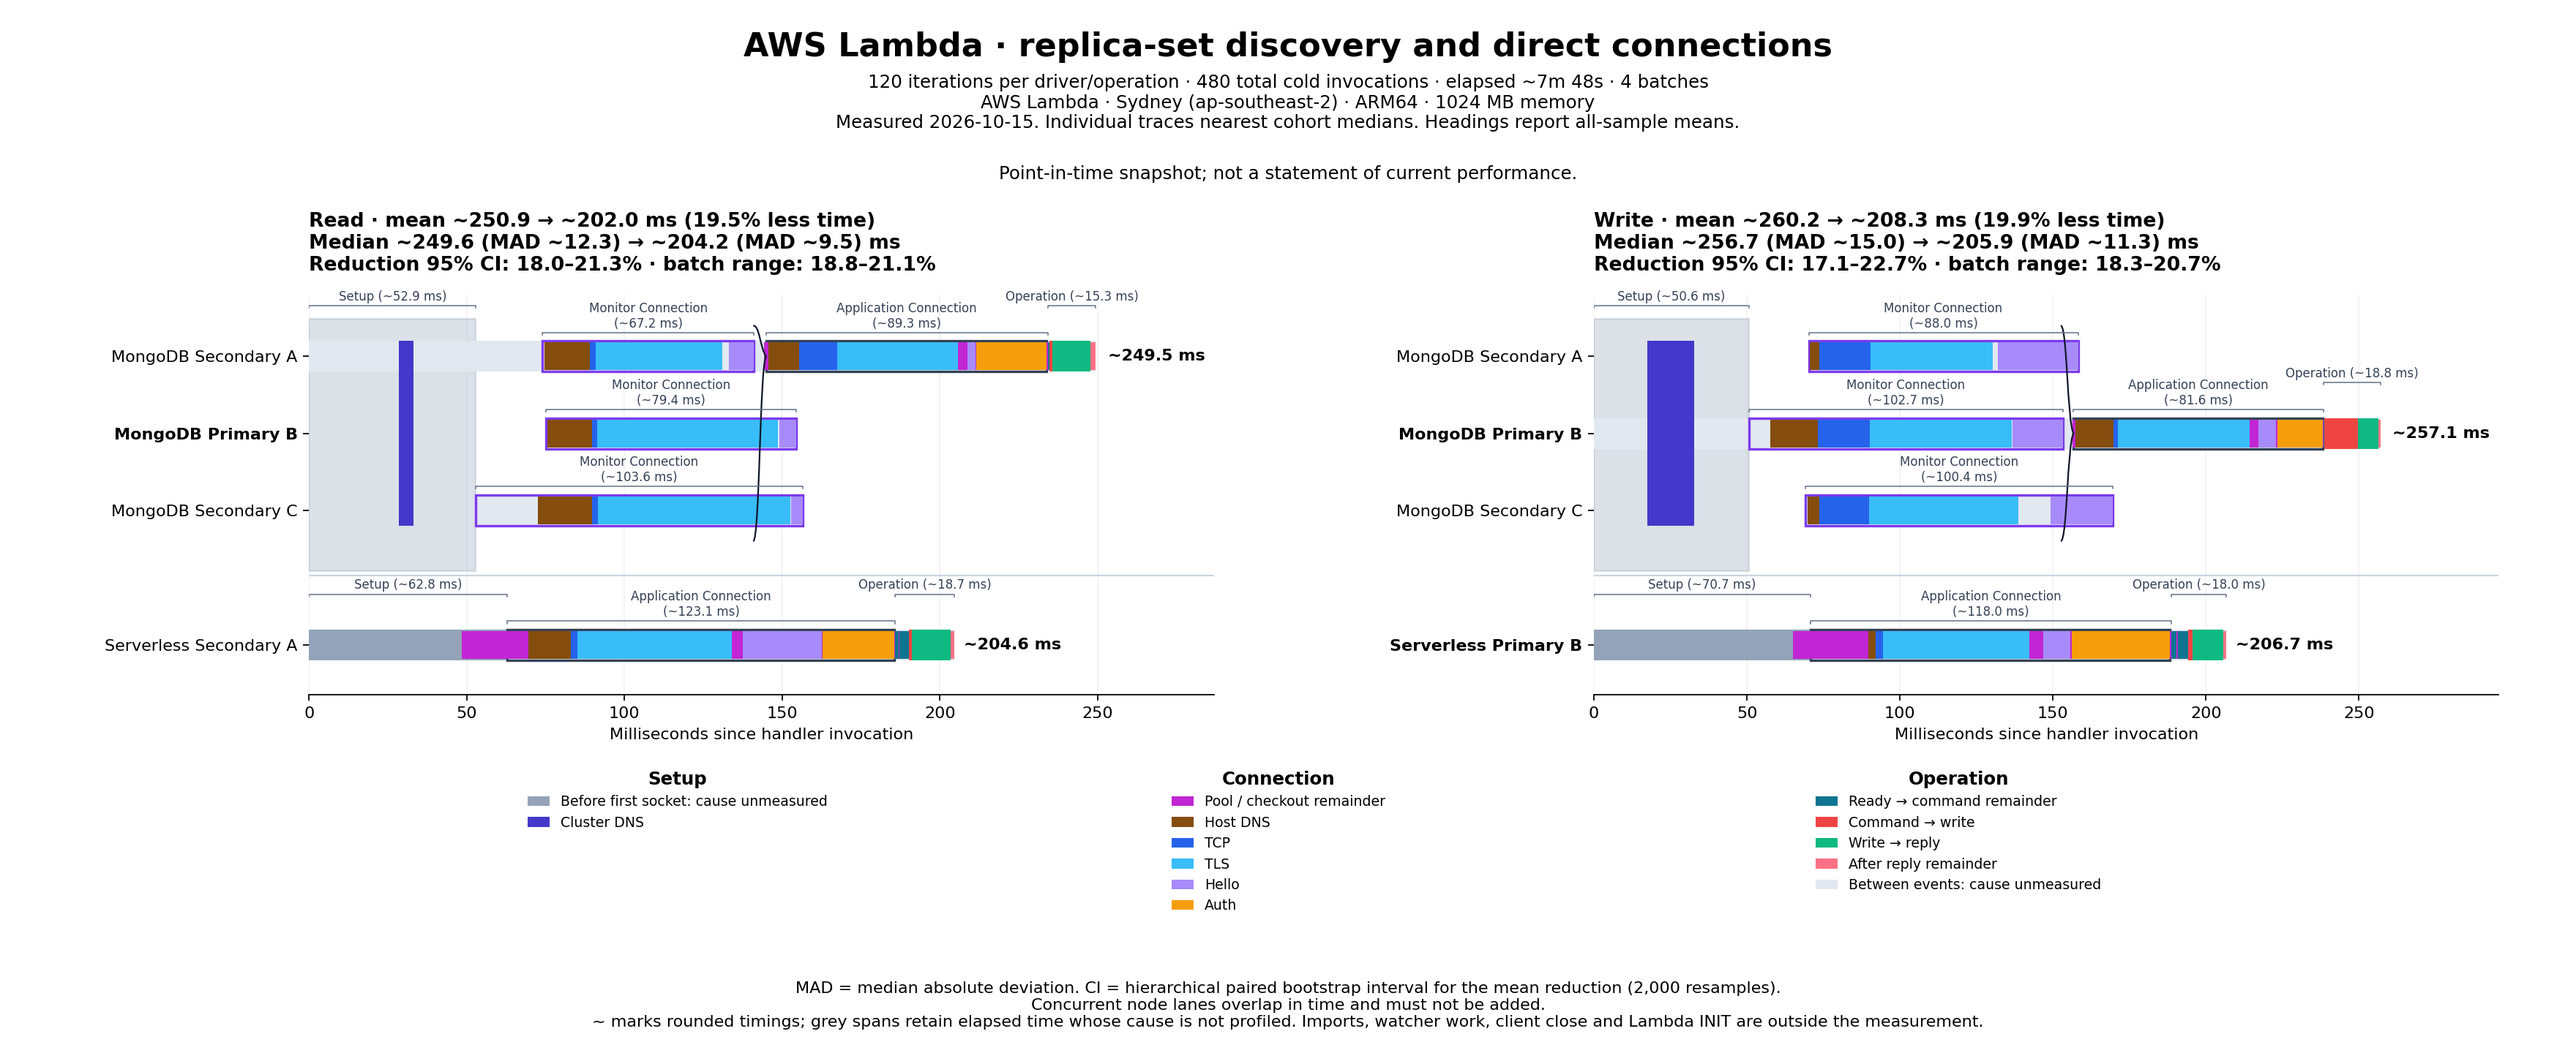
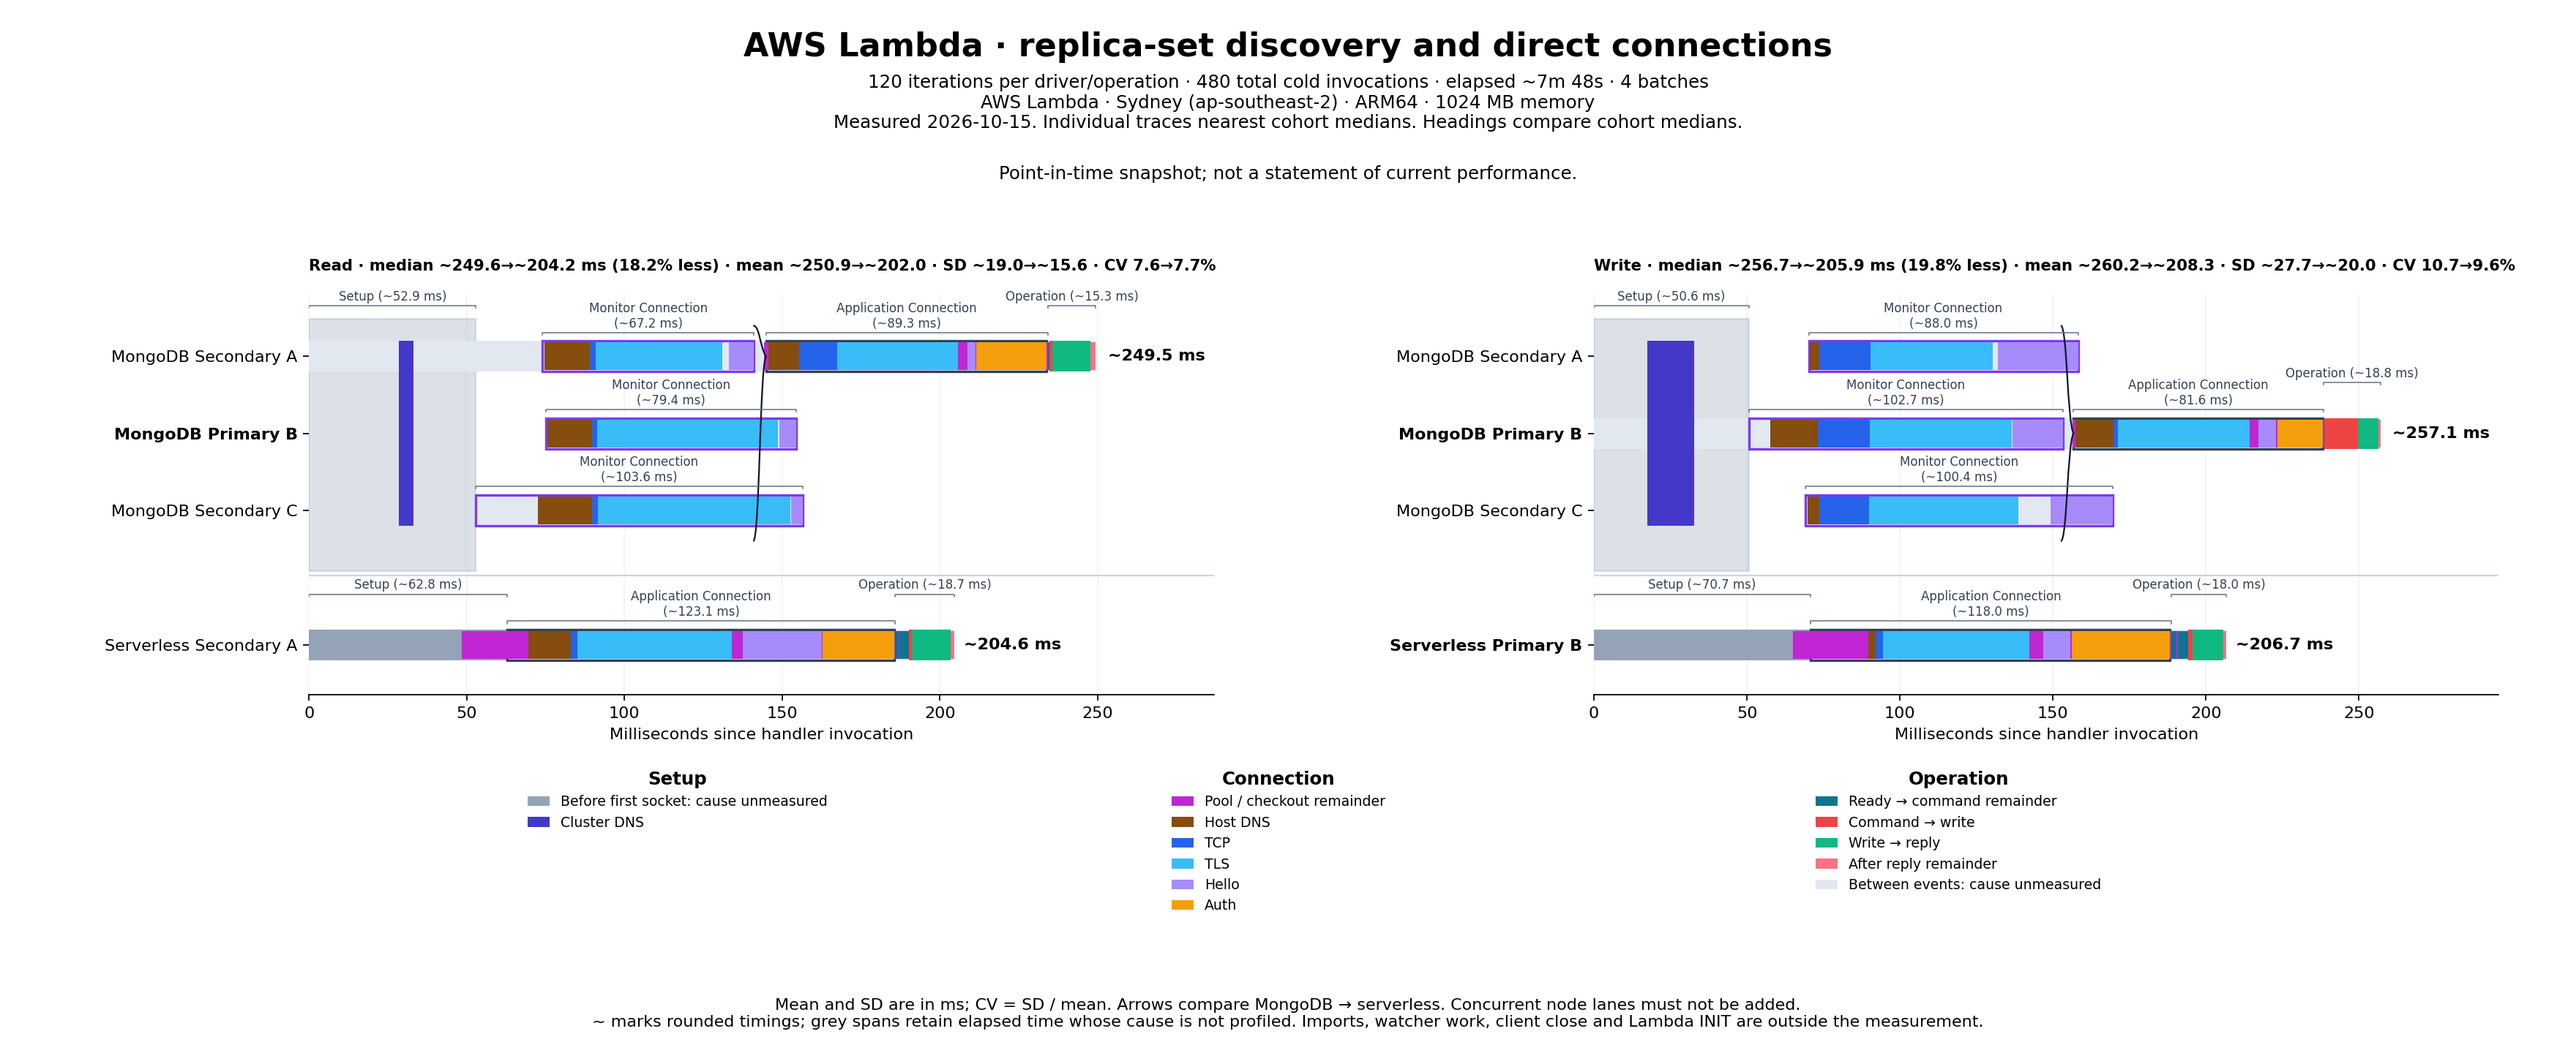
feat: condense benchmark statistics into median-led headings

diff --git a/benchmark/report.py b/benchmark/report.py
@@ -8,7 +8,7 @@ import json
 import math
 import random
 from pathlib import Path
-from statistics import mean, median
+from statistics import mean, median, stdev
 
 import matplotlib
 
@@ -328,6 +328,8 @@ def summarize(rows):
                     "n": len(group),
                     "mean": mean(totals),
                     "median": median(totals),
+                    "standardDeviation": stdev(totals) if len(totals) > 1 else None,
+                    "coefficientOfVariationPercent": 100 * stdev(totals) / mean(totals) if len(totals) > 1 else None,
                     "medianAbsoluteDeviation": median(abs(value - median(totals)) for value in totals),
                     "p95": totals[math.ceil(0.95 * len(totals)) - 1],
                     "roles": dict(Counter(row["servedRole"] for row in group)),
@@ -437,6 +439,17 @@ def section_spans(row):
                        "connection": connection})
     result.append({"label": "Operation", "start": ready, "end": timeline["total"]})
     return result
+
+
+def chart_heading(operation, native, serverless):
+    reduction = 100 * (1 - serverless["median"] / native["median"])
+
+    def pair(field, approximate=True):
+        return "→".join(("~" if approximate else "") + f"{stats[field]:.1f}"
+                        if stats[field] is not None else "n/a" for stats in (native, serverless))
+
+    return (f"{operation.title()} · median {pair('median')} ms ({reduction:.1f}% less) · "
+            f"mean {pair('mean')} · SD {pair('standardDeviation')} · CV {pair('coefficientOfVariationPercent', False)}%")
 
 
 def callback_work(stack):
@@ -684,7 +697,7 @@ def render(data, environment, output):
     figure.text(
         0.5,
         0.93,
-        run_caption(data, environment) + "\n" + f"Measured {date}. {sample_caption}. " + ("Diagnostic probes enabled; timings include tracing overhead." if diagnostic else "Headings report all-sample means."),
+        run_caption(data, environment) + "\n" + f"Measured {date}. {sample_caption}. " + ("Diagnostic probes enabled; timings include tracing overhead." if diagnostic else "Headings compare cohort medians."),
         va="top",
         ha="center",
         fontsize=11,
@@ -706,26 +719,13 @@ def render(data, environment, output):
                 row = native if item["driver"] == "native-cluster" else serverless
                 item["illustratedTraceAccountingMs"] = accounting_totals(row["timeline"])
                 item["illustratedTraceSegments"] = accounting_segments(row["timeline"])
-        means = {
-            item["driver"]: item["mean"]
-            for item in summary
-            if item["operation"] == operation
-        }
         comparison = comparison_stats([row for row in rows if row["operation"] == operation])
         for item in summary:
             if item["operation"] == operation:
                 item["comparison"] = comparison
-        reduction = comparison["reductionPercent"]
-        low, high = comparison["confidence95Percent"]
-        batch_values = [batch["reductionPercent"] for batch in comparison["batches"]]
         distributions = {item["driver"]: item for item in summary if item["operation"] == operation}
-        native_stats, serverless_stats = (distributions[mode] for mode in MODES)
-        axis.set_title(
-            f"{operation.title()} · mean ~{means['native-cluster']:.1f} → ~{means['serverless']:.1f} ms ({reduction:.1f}% less time)\n"
-            f"Median ~{native_stats['median']:.1f} (MAD ~{native_stats['medianAbsoluteDeviation']:.1f}) → ~{serverless_stats['median']:.1f} (MAD ~{serverless_stats['medianAbsoluteDeviation']:.1f}) ms\n"
-            f"Reduction 95% CI: {low:.1f}–{high:.1f}% · batch range: {min(batch_values):.1f}–{max(batch_values):.1f}%",
-            loc="left", fontsize=12, weight="bold", pad=15,
-        )
+        axis.set_title(chart_heading(operation, distributions["native-cluster"], distributions["serverless"]),
+                       loc="left", fontsize=9.5, weight="bold", pad=15)
         axis.set_xlim(
             0, max(native["timeline"]["total"], serverless["timeline"]["total"]) * 1.15
         )
@@ -767,8 +767,7 @@ def render(data, environment, output):
     figure.text(
         0.5,
         0.025,
-        "MAD = median absolute deviation. CI = hierarchical paired bootstrap interval for the mean reduction (2,000 resamples).\n"
-        "Concurrent node lanes overlap in time and must not be added.\n"
+        "Mean and SD are in ms; CV = SD / mean. Arrows compare MongoDB → serverless. Concurrent node lanes must not be added.\n"
         + (f"Callback names: largest named sampled work per stage in a separate {data['callbackProfile']['invocations']}-invocation local profile; not a complete attribution of these bars.\n" if data.get("callbackProfile") else "")
         + ("Hatching spans callbacks with measured off-CPU time; it does not locate individual pauses. Cgroup counters cover all threads. ~ marks rounded timings." if diagnostic else
            "~ marks rounded timings; grey spans retain elapsed time whose cause is not profiled. Imports, watcher work, client close and Lambda INIT are outside the measurement."),

diff --git a/benchmark/test/report_test.py b/benchmark/test/report_test.py
@@ -8,6 +8,23 @@ import unittest
 
 
 class ReportTest(unittest.TestCase):
+    def test_chart_heading_uses_median_reduction_on_one_line(self):
+        import importlib.util
+        root = Path(__file__).parents[1]
+        spec = importlib.util.spec_from_file_location("report", root / "report.py")
+        report = importlib.util.module_from_spec(spec)
+        spec.loader.exec_module(report)
+        rows = [{"operation": operation, "mode": mode, "servedRole": "PRIMARY",
+                 "timeline": {"total": value, "connections": []}}
+                for operation in ("read", "write") for mode in report.MODES for value in (1, 2, 3)]
+        stats = report.summarize(rows)[0]
+        self.assertEqual(stats["standardDeviation"], 1)
+        self.assertEqual(stats["coefficientOfVariationPercent"], 50)
+        native = {"median": 250, "mean": 300, "standardDeviation": 30, "coefficientOfVariationPercent": 10}
+        direct = {"median": 200, "mean": 270, "standardDeviation": 27, "coefficientOfVariationPercent": 10}
+        self.assertEqual(report.chart_heading("read", native, direct),
+                         "Read · median ~250.0→~200.0 ms (20.0% less) · mean ~300.0→~270.0 · SD ~30.0→~27.0 · CV 10.0→10.0%")
+
     def test_callback_legend_names_measured_work_and_keeps_probe_overhead(self):
         import importlib.util
         root = Path(__file__).parents[1]
@@ -112,7 +129,8 @@ class ReportTest(unittest.TestCase):
             with patch.object(report.plt, "close") as close:
                 report.render(cohort, "local", Path(directory))
             for axis in close.call_args.args[0].axes:
-                self.assertIn("% less time", axis.get_title(loc="left"))
+                self.assertIn("% less)", axis.get_title(loc="left"))
+                self.assertNotIn("\n", axis.get_title(loc="left"))
         self.assertTrue(data["configuration"]["diagnostics"])
         self.assertGreaterEqual(data["configuration"]["count"], 100)
         self.assertNotIn("diagnostic", data)

diff --git a/benchmark/results/aws/results.md b/benchmark/results/aws/results.md
@@ -8,10 +8,10 @@ data, diagram and report in this folder, keeping the same links.
 
 ![AWS connection timings from 15 October 2026](latency.png)
 
-Mean read time was **250.9 → 202.0 ms (19.5% less time)**; mean write time was
-**260.2 → 208.3 ms (19.9% less time)**.
+Median read time was **249.6 → 204.2 ms (18.2% less time)**; median write time was
+**256.7 → 205.9 ms (19.8% less time)**.
 
-Percentages use unrounded means. Each driver/operation has 120 verified cold Lambda
+Percentages use unrounded medians. Each driver/operation has 120 verified cold Lambda
 invocations, collected in four batches of 30. The complete run took approximately
 7m 48s, including authentication, worker resets and logout. Timing starts before handler invocation, including lazy client construction,
 and ends at the operation result;
@@ -28,7 +28,7 @@ discovery. All serverless reads reached secondaries; all writes reached primarie
 Every serverless sample opened one authenticated application socket and no monitor
 socket. Each illustrated trace is a real sample nearest its driver/operation
 median, with every socket from that sample shown. The diagram headings
-report means across all 120 samples per driver/operation.
+compare medians across all 120 samples per driver/operation.
 Cluster DNS is the shared SRV/TXT discovery stage, shown as one block spanning
 all three node lanes before sockets open. Its elapsed time averaged 13.23 ms for MongoDB reads and 13.85 ms for writes.
 The requests overlap; their individual durations must not be added. Host DNS
@@ -49,8 +49,8 @@ Lambda placement, CPU scheduling, DNS, TLS and database load affect these timing
 The results do not establish current performance or the behavior of long-lived
 pools, elections or failover.
 
-The headings also show medians and median absolute deviations (MAD), the typical
-distance from the median. The reduction's 95% confidence interval uses 2,000
+The summary retains means, p95 and median absolute deviations (MAD), the typical
+distance from the median. The mean reduction's 95% confidence interval uses 2,000
 hierarchical bootstrap resamples: batches first, then paired five-worker rounds
 within each batch. The batch range shows observed variation in mean reduction.
 Four batches describe these runs; they do not establish performance across other

diff --git a/BENCHMARK.md b/BENCHMARK.md
@@ -9,15 +9,16 @@ The diagram shows 100 cold invocations per driver/operation across four batches
 of 25, with code probes,
 callback tracing and socket/client events recording the full breakdown.
 Each illustrated trace is the sample nearest its driver/operation median.
-Headings report means and percentage reductions from that same measured cohort.
+Headings report medians and the percentage reduction between those medians.
 The first operation connects automatically, and the local client has no CPU quota.
 The complete four-batch run took approximately 3m 29s, including compilation,
 cluster setup and teardown. The command below collects one 100-iteration batch.
 
 Timings include profiling overhead, so the percentages describe this instrumented
 run. The [legend definitions](benchmark/README.md#reading-the-diagram) explain
-the measured setup, connection and operation intervals. MAD is the median absolute
-distance from the median. The 95% interval for the percentage reduction uses
+the measured setup, connection and operation intervals. The summary retains
+means, p95 and variability. MAD is the median absolute
+distance from the median. The 95% interval for the mean reduction uses
 2,000 bootstrap resamples, first sampling batches and then paired iterations
 within each batch. The batch range shows the observed variation between runs;
 four batches do not establish performance across all machines or workloads.

diff --git a/benchmark/README.md b/benchmark/README.md
@@ -17,8 +17,11 @@ container CPU quota. Timings and percentage reductions include profiling overhea
 ![Measured local connection breakdown](results/local/latency.png)
 
 The bars, percentage headings and summary use the same measured cohort.
-Headers show median and median absolute deviation (MAD), the typical distance
-from the median. Percentage-reduction intervals use 2,000 hierarchical paired
+Headers compare cohort medians; the percentage is `100 × (1 − serverless median / native median)`.
+Following [Google Benchmark](https://google.github.io/benchmark/user_guide.html),
+the same header line also shows mean, sample standard deviation (SD) and coefficient
+of variation (CV = SD / mean). The summary retains p95, median absolute deviation
+(MAD) and uncertainty for the mean reduction. These intervals use 2,000 hierarchical paired
 bootstrap resamples: batches first, then iterations within each batch. AWS uses
 paired five-worker rounds within each batch. Batch ranges show the observed
 variation in mean reduction. The intervals describe uncertainty within these
